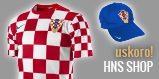
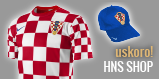
menu-ie8 menu-rolloveri

Changed region(s): [[0.0252, 0.0253, 0.6038, 1.0], [0.6038, 0.0, 0.9308, 0.5316], [0.3522, 0.7089, 0.3774, 0.7342]]

diff --git a/css/style.css b/css/style.css
@@ -353,7 +353,17 @@ section.shop_timeline img {
 }
 
 section.shop_timeline ul li.hns-shop {
-	height: 120px;
+	width: 239px;
+	height: 119px;
+	margin-bottom: -1px;
+	border: 1px solid #999;
+	background: url('/img/hns_shop.png') no-repeat;
+}
+
+section.shop_timeline ul li.hns-shop:hover {
+	width: 239px;
+	height: 119px;
+	background: url('/img/hns_shop_on.png') no-repeat;
 }
 
 section.vatreni {
@@ -545,33 +555,36 @@ nav#menu ul li:hover {
 	background: #4d4d4d;
 }
 
-nav#menu ul li:hover section {
+nav#menu ul li:hover ul {
 	width: 720px;
+	display: inline-block;
 	background: #4d4d4d;
 	left: 0;
+	top: 50px;
 	position: absolute;
 	box-shadow: 0px 5px 5px 1px #666;
 	-webkit-box-shadow: 0px 5px 5px 1px #666;
 	z-index: 999;
 }
 
-nav#menu ul li:hover ul {
-	width: 240px;
-	padding: 15px 0;
+nav#menu ul li:hover ul li {
+	width: 200px;
+	padding: 15px 20px;
 	border: 0;
 	display: inline-block;
 	background: #4d4d4d;
 	float: left;
 	z-index: 1000;
 	overflow: hidden;
+	text-align: left;
 }
 
 nav#menu ul li:hover ul li {
-	width: 100%;
-	padding: 6px 25px;
-	text-align: left;
-	border: 0;
-	background: #4d4d4d;
+/*	width: 100%;*/
+/*	padding: 6px 25px;*/
+/*	text-align: left;*/
+/*	border: 0;*/
+/*	background: #4d4d4d;*/
 }
 
 nav#menu ul li:hover ul li a {
@@ -917,20 +930,82 @@ nav#info ul li img {
 
 /*subpage*/
 section.subpage_nav ul li {
-	width: 81px;
-	height: 81px;
+	width: 79px;
+	height: 79px;
 	margin-right: -1px;
 	margin-bottom: -1px;
+	border: 1px solid #999;
 	float: left;
+}
+
+section.subpage_nav ul li a {
+	height: 79px;
+	display: block;
 }
 
 section.subpage_nav ul li.hns-shop {
-	width: 161px;
+	width: 159px;
+	background: url('/img/hns_shop_160.png') no-repeat;
 }
 
-section.subpage_nav ul li a img {
-	float: left;
-	border: 1px solid #999;
+section.subpage_nav ul li.hns-shop:hover {
+	background: url('/img/hns_shop_160_on.png') no-repeat;
+}
+
+section.subpage_nav ul li.ulaznice {
+	background: url('/img/ulaznice_80.png') no-repeat;
+}
+
+section.subpage_nav ul li.ulaznice:hover {
+	background: url('/img/ulaznice_80_on.png') no-repeat;
+}
+
+section.subpage_nav ul li.raspored {
+	background: url('/img/raspored_80.png') no-repeat;
+}
+
+section.subpage_nav ul li.raspored:hover {
+	background: url('/img/raspored_80_on.png') no-repeat;
+}
+
+section.subpage_nav ul li.hnstv {
+	background: url('/img/hns_tv_80.png') no-repeat;
+}
+
+section.subpage_nav ul li.hnstv:hover {
+	background: url('/img/hns_tv_80_on.png') no-repeat;
+}
+
+section.subpage_nav ul li.galerija {
+	background: url('/img/galerija_80.png') no-repeat;
+}
+
+section.subpage_nav ul li.galerija:hover {
+	background: url('/img/galerija_80_on.png') no-repeat;
+}
+
+section.subpage_nav ul li.aktualnosti {
+	background: url('/img/aktualno_80.png') no-repeat;
+}
+
+section.subpage_nav ul li.aktualnosti:hover {
+	background: url('/img/aktualno_80_on.png') no-repeat;
+}
+
+section.subpage_nav ul li.areprezentacija {
+	background: url('/img/a_reprezentacija_80.png') no-repeat;
+}
+
+section.subpage_nav ul li.areprezentacija:hover {
+	background: url('/img/a_reprezentacija_80_on.png') no-repeat;
+}
+
+section.subpage_nav ul li.brojac {
+	background: url('/img/brojac_80.png') no-repeat;
+}
+
+section.subpage_nav ul li.brojac:hover {
+	background: url('/img/brojac_80_on.png') no-repeat;
 }
 
 section.subpage_categories {
@@ -1040,13 +1115,6 @@ section.team ul li span.name {
 
 section.team ul li span.position {
 	width: 408px;
-}
-
-
-
-section.fake { /*prazni box za povecat visinu lijevog sidebara*/
-	height: 250px;
-	clear: both;
 }
 
 section.main {

diff --git a/css/ie8.css b/css/ie8.css
@@ -1,0 +1,4 @@
+nav#menu ul li:hover section {
+	top: 35px;
+	z-index: 9999;
+}

diff --git a/app/view/templates/default.php b/app/view/templates/default.php
@@ -19,6 +19,9 @@
 	  <!--[if lt IE 9]>
 	    <script src="http://ie7-js.googlecode.com/svn/version/2.1(beta4)/IE9.js"></script>
 	  <![endif]-->
+	  <!--[if IE 8]>
+	    <link rel="stylesheet" href="/css/ie8.css" type="text/css" />
+	  <![endif]-->
   </head>
   <body>
   	<div id="bg_box" class="bg<?php echo rand(1,3)?>">
@@ -29,14 +32,14 @@
 			  <?php $this->getElement ('header'); ?>
 			  <section class="subpage_nav">
 			  	<ul>
-			  		<li class="hns-shop"><img src="/img/hns_shop_160.png" alt="" style="border: 1px solid #999;"></li>
-			  		<li><a href="/selekcije/ulaznice" ><img src="/img/ulaznice_80.png" alt="" ></a></li>
-			  		<li><a href="/selekcije/raspored-utakmica" ><img src="/img/raspored_80.png" alt="" ></a></li>
-			  		<li><a href="/info-centar/hns-tv" ><img src="/img/hns_tv_80.png" alt="" ></a></li>
-			  		<li><a href="/info-centar/galerija" ><img src="/img/galerija_80.png" alt="" ></a></li>
-			  		<li><a href="/info-centar/aktualnosti" ><img src="/img/aktualno_80.png" alt="" ></a></li>
-			  		<li><a href="/selekcije/a-reprezentacija" ><img src="/img/a_reprezentacija_80.png" alt="" ></a></li>
-			  		<li><a href="/selekcije/raspored-utakmica" ><img src="/img/brojac_80.png" alt="" ></a></li>
+			  		<li class="hns-shop"></li>
+			  		<li class="ulaznice"><a href="/selekcije/ulaznice" ></a></li>
+			  		<li class="raspored"><a href="/selekcije/raspored-utakmica" ></a></li>
+			  		<li class="hnstv"><a href="/info-centar/hns-tv" ></a></li>
+			  		<li class="galerija"><a href="/info-centar/galerija" ></a></li>
+			  		<li class="aktualnosti"><a href="/info-centar/aktualnosti" ></a></li>
+			  		<li class="areprezentacija"><a href="/selekcije/a-reprezentacija" ></a></li>
+			  		<li class="brojac"><a href="/selekcije/raspored-utakmica" ></a></li>
 			  	</ul>
 			  </section>
 			  <section class="subpage_categories">

diff --git a/app/view/elements/navigation.php b/app/view/elements/navigation.php
@@ -5,20 +5,14 @@
       <?php foreach ($navPages as $page): ?>
         <li><a href="<?php echo $page->Url; ?>"><?php echo $page->NavigationName; ?></a>
         <?php if ($page->Subpages): ?>
-          <section>
+          <ul>
               <?php $count = count ($page->Subpages); for ($i = 0; $i < $count; $i++): $subPage = $page->Subpages[$i]; ?>
-                <?php if ($i % (ceil($count / 3)) == 0): ?>
-                <ul>
-                <?php endif; ?>
                 <li>
                   <a href="<?php echo $subPage->Url; ?>"><?php echo $subPage->NavigationName; ?></a>
                   <small><?php echo $subPage->NavigationDescription; ?></small>
                 </li>
-                <?php if ($i % (ceil($count / 3)) == ceil($count / 3) - 1 || $i == $count - 1): ?>
-                </ul>
-                <?php endif; ?>
               <?php endfor; ?>
-          </section>
+          </ul>
         <?php endif; ?>
         </li>
       <?php endforeach; ?>

diff --git a/app/view/templates/home.php b/app/view/templates/home.php
@@ -20,6 +20,9 @@
 	  <!--[if lt IE 9]>
 	    <script src="http://ie7-js.googlecode.com/svn/version/2.1(beta4)/IE9.js"></script>
 	  <![endif]-->
+	  <!--[if IE 8]>
+	    <link rel="stylesheet" href="/css/ie8.css" type="text/css" />
+	  <![endif]-->
   </head>
   <body>
   	<div id="bg_box" class="bg<?php echo rand(1,3)?>">
@@ -70,7 +73,7 @@
 
 				<section class="shop_timeline">
 					<ul>
-						<li class="hns-shop"><img src="/img/hns_shop.png" alt="HNS SHOP" /></li>
+						<li class="hns-shop"></li>
 						<li class="timeline" style="overflow:hidden;width:241px;height:121px;">
 							<ul>
 							  <li><a href="/hns/o-nama/vremeplov"><img src="/img/timeline/1998-francuska-suker-boban.jpg" alt="TIMELINE" /></a></li>
